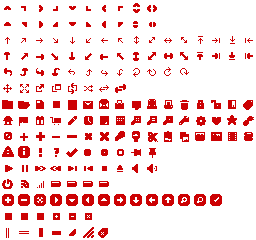
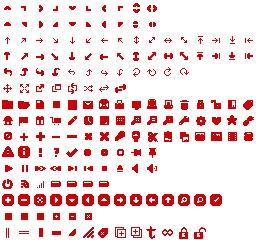
Working on new UI

Changed region(s): [[0.4375, 0.9333, 0.8125, 1.0]]

diff --git a/content/js/lasuli.hypertopic.js b/content/js/lasuli.hypertopic.js
@@ -199,8 +199,8 @@ lasuli.hypertopic = {
       try{
         var item = this.items[k];
         result = item.getAttributes();
-        logger.debug(item);
-        logger.debug(result);
+        logger.trace(item);
+        logger.trace(result);
       if(result)
         attributes[k] = result;
       }catch(e){
@@ -221,7 +221,7 @@ lasuli.hypertopic = {
         if(idx == -1)
           result[attribute.name].push(strValue);
       }
-    logger.debug(result);
+    logger.trace(result);
     MemCache.attributes = result;
     return result;
   },
@@ -274,12 +274,12 @@ lasuli.hypertopic = {
       var items = this.items;
       startTime = new Date().getTime();
       var topics = {};
-      logger.info(items);
+      logger.trace(items);
       for(var k in items){
         var item = items[k];
         var startTime2 = new Date().getTime();
         var fragments = item.getHighlights();
-        logger.info(fragments);
+        logger.trace(fragments);
         for(var j=0, fragment; fragment = fragments[j]; j++){
           this._locations[fragment.getID()] = k;
           result[fragment.getID()] = fragment;
@@ -928,9 +928,28 @@ lasuli.hypertopic = {
         var topicType = this.getTopicType(this.viewpointID, t.getID());
         obj.attr = {"viewpointID": this.viewpointID, "topicID": t.getID(), "name": obj.data + "", "rel": topicType};
         obj.children = this.getNarrowers(t);
+        obj.children = obj.children.concat(this.getFragments(t));
         topics.push(obj);
       }catch(e){logger.fatal(e.message); }
     return topics;
+  },
+  getFragments : function(topic){
+    var logger = Log4Moz.repository.getLogger("lasuli.hypertopic.getFragments");
+    var fragments = new Array();
+    for each(var fragment in this.docFragments)
+      if(topic.getID() == fragment.topic.getID())
+        try{
+          logger.debug(topic.getID());
+          logger.debug(fragment.getText());
+          var obj = {};
+          obj.data = fragment.getText() || "";
+          obj.attr = {"fragmentID": fragment.getID, "fragment": fragment, "name": obj.data + "", "rel": 'fragment'};
+          fragments.push(obj);
+        }catch(e){
+          logger.fatal(e.message);
+          logger.error(fragment.getObject());
+        }
+    return fragments;
   },
   getTopicType : function(viewpointID, topicID){
     if(topicID in this.docKeywords) return 'keyword';
@@ -946,19 +965,19 @@ lasuli.hypertopic = {
     //logger.trace('put viewpoint as the root topic');
 
     topics.data = new Array();
-    var root = {};
+    /* var root = {};
     try{
       root.data = this.viewpoint.getName();
       root.attr = {"viewpointID": this.viewpointID, "name": root.data + "", "rel": "viewpoint"};
       root.children = new Array();
       root.state = 'open';
-    }catch(e){ logger.fatal(e.message); }
+    }catch(e){ logger.fatal(e.message); }*/
 
     try{
       var upper = this.viewpoint.getUpperTopics();
       if(!upper) {
         //logger.trace('has no topic');
-        topics.data.push(root);
+        //topics.data.push(root);
         //logger.trace(topics);
         return topics;
       }
@@ -970,10 +989,12 @@ lasuli.hypertopic = {
         var topicType = this.getTopicType(this.viewpointID, topic.getID());
         obj.attr = {"viewpointID": this.viewpointID, "topicID": topic.getID(), "name": obj.data + "", "rel": topicType};
         obj.children = this.getNarrowers(topic);
-        root.children.push(obj);
+        obj.children = obj.children.concat(this.getFragments(topic));
+        topics.data.push(obj);
       }
     }catch(e){logger.fatal(e.message); }
-    topics.data.push(root);
+    //topics.data.push(root);
+    //logger.debug(topics);
     return topics;
   }
 }

diff --git a/content/js/lasuli.core.js b/content/js/lasuli.core.js
@@ -158,7 +158,7 @@ lasuli.core = {
     _p([8,10]);
     // Highlight all fragments
     var fragments = lasuli.hypertopic.docCoordinates;
-    logger.info(fragments);
+    logger.trace(fragments);
     this.fragments[lasuli.hypertopic.currentUrl] = fragments;
     dispatch("lasuli.highlighter.doHighlight", {"fragments": fragments});
     Sync.sleep(1000);
@@ -273,26 +273,34 @@ lasuli.core = {
     if(viewpointID) lasuli.hypertopic.viewpointID = viewpointID;
     dispatch("lasuli.ui.doReloadTopicTree", lasuli.hypertopic.topicTree);
   },
-  doCreateTopicTreeItem: function(arg){
+  doCreateTopicTreeItem: function(args){
     var logger = Log4Moz.repository.getLogger("lasuli.core.doCreateTopicTreeItem");
+    for(var i=0, arg; arg = args[i]; i++){
     //logger.debug(arg);
-    _p(30);
-    var topic = lasuli.hypertopic.createAnalysis(arg.viewpointID, arg.topicID, _("no.name"));
-    _p(60);
-    //logger.debug(topic);
-    if(topic)
-    {
-      dispatch("lasuli.ui.doCreateTopicTreeItem", {"viewpointID": arg.viewpointID, "topicID": topic.topicID, "sourceObj":arg.sourceObj});
-      _p(70);
-      //append to analysis
-      dispatch("lasuli.ui.doCreateAnalysis", topic);
-      _p(80);
-      //add menu item to context menu
-      dispatch("lasuli.contextmenu.doAddMenuItem", topic );
-      _p(90);
+      _p(30 * (i/args.length));
+      var topic = lasuli.hypertopic.createAnalysis(arg.viewpointID, arg.topicID, _("no.name"));
+      var forceReload = false;
+      if(arg.topicID == null)
+        forceReload = true;
+      _p(60 * (i/args.length));
+      logger.debug(topic);
+      if(topic)
+      {
+        if(forceReload)
+          dispatch("lasuli.core.doReloadTopicTree", false );
+        else
+          dispatch("lasuli.ui.doCreateTopicTreeItem", {"viewpointID": arg.viewpointID, "topicID": topic.topicID, "sourceObj":arg.sourceObj});
+        _p(70 * (i/args.length));
+        //append to analysis
+        dispatch("lasuli.ui.doCreateAnalysis", topic);
+        _p(80 * (i/args.length));
+        //add menu item to context menu
+        dispatch("lasuli.contextmenu.doAddMenuItem", topic );
+        _p(90 * (i/args.length));
+      }
+      else
+        dispatch("lasuli.ui.doShowMessage", {"title": _("Error"), "content": _('topictree.create.topic.failed')});
     }
-    else
-      dispatch("lasuli.ui.doShowMessage", {"title": _("Error"), "content": _('topictree.create.topic.failed')});
     _p(100);
   },
 

diff --git a/content/css/lasuli.css b/content/css/lasuli.css
@@ -247,11 +247,32 @@ div.ui-tabs-panel {
   overflow-y: auto;
 }
 
-.tt-tag, .tt-create, .tt-modify, .tt-delete{
+.tt-stopic, .tt-ptopic, .tt-rename, .tt-trash, .tt-tag{
   padding-top:5px;
   padding-bottom: 5px;
 }
-
+.viewpoint-header{
+  float:left;
+  display: inline-block;
+  width: 100%;
+}
+.topic-tree{
+  float:left;
+  width: 100%;
+  padding-bottom: 5px;
+}
+.tree-toolbar{
+  float:right;
+  margin-top: 10px;
+}
+.viewpoint-name{
+  float:left;
+}
+.viewpoint-modify{
+  float:right;
+  margin-right: -10px;
+  margin-top: 3px;
+}
 .ui-progressbar-value{
   background-image: url(blitzer/images/pbar-ani.gif);
 }
@@ -343,3 +364,8 @@ input.cb-fragment {
 	width: -moz-calc(100% - 40px);
 	margin-left: 6px;
 }
+
+#tree a { white-space:normal !important; height: auto; padding:1px 2px; } 
+#tree li > ins { vertical-align:top; }
+#tree .jstree-hovered, #tree .jstree-clicked { border:0; }
+#tree {background-color: #FFF !important;}

diff --git a/content/css/blitzer/jquery-ui-1.8.4.custom.css b/content/css/blitzer/jquery-ui-1.8.4.custom.css
@@ -186,7 +186,6 @@
 .ui-icon-locked { background-position: -192px -96px; }
 .ui-icon-unlocked { background-position: -208px -96px; }
 .ui-icon-bookmark { background-position: -224px -96px; }
-.ui-icon-tag { background-position: -240px -96px; }
 .ui-icon-home { background-position: 0 -112px; }
 .ui-icon-flag { background-position: -16px -112px; }
 .ui-icon-calendar { background-position: -32px -112px; }
@@ -275,8 +274,10 @@
 .ui-icon-gripsmall-diagonal-se { background-position: -64px -224px; }
 .ui-icon-grip-diagonal-se { background-position: -80px -224px; }
 .ui-icon-untag { background-position: -96px -224px; }
-
-
+.ui-icon-stopic { background-position: -112px -224px; }
+.ui-icon-ptopic { background-position: -128px -224px; }
+.ui-icon-rename { background-position: -144px -224px; }
+.ui-icon-tag { background-position: -160px -224px; }
 /* Misc visuals
 ----------------------------------*/
 

diff --git a/modules/HypertopicMap.js b/modules/HypertopicMap.js
@@ -84,7 +84,7 @@ HtMap.prototype.purgeCache = function(){
 HtMap.prototype.getServerType = function(){
   var logger = Log4Moz.repository.getLogger("HtMap.getServerType");
   var result = this.httpGet('/');
-  logger.debug(result);
+  logger.trace(result);
   if(typeof result['service'] == 'string')
     return result['service'].toLowerCase();
   return false;
@@ -747,7 +747,7 @@ HtMapItem.prototype.getHighlights = function() {
   var logger = Log4Moz.repository.getLogger("HtMapItem.getHighlights");
 	var result = new Array();
 	var view = this.getView();
-	logger.debug(view);
+	logger.trace(view);
 	if(!view.highlight || view.highlight.length == 0) return result;
     for(var i=0, highlight; highlight = view.highlight[i]; i++)
       result.push(new HtMapHighlight(highlight.id, this));

diff --git a/content/js/lasuli.highlighter.js b/content/js/lasuli.highlighter.js
@@ -183,7 +183,7 @@ lasuli.highlighter = {
       nl.originalNode.parentNode.replaceChild(nl.newNode, nl.originalNode);
 
     var endTime = new Date().getTime();
-    logger.debug("Execution time: " + (endTime - startTime) + "ms");
+    logger.trace("Execution time: " + (endTime - startTime) + "ms");
   },
 
   doClear: function()

diff --git a/content/index.html b/content/index.html
@@ -40,11 +40,6 @@
 	</fieldset>
 </div>
 
-<!-- topic tree dialog //-->
-<div id="topic-tree-dialog" title="Topic Tree" class="hide">
-  <div id="tree"></div>
-</div>
-
 <!-- message dialog //-->
 <div id="message-dialog" title="Information" class="hide">
 	<p>
